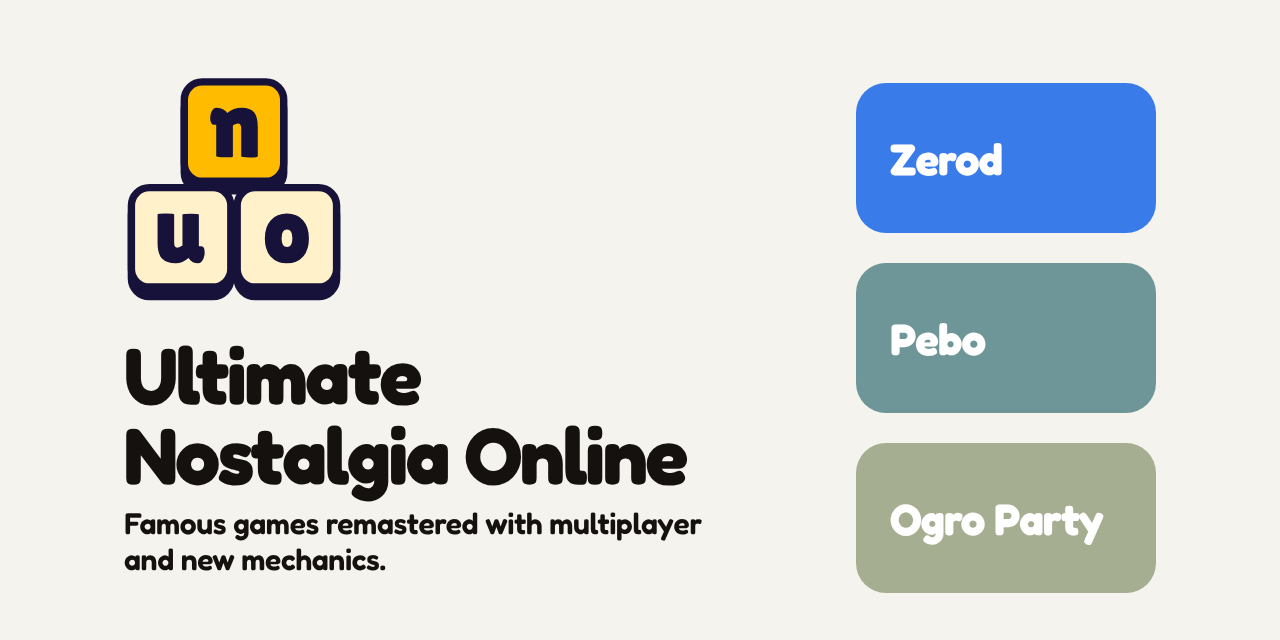
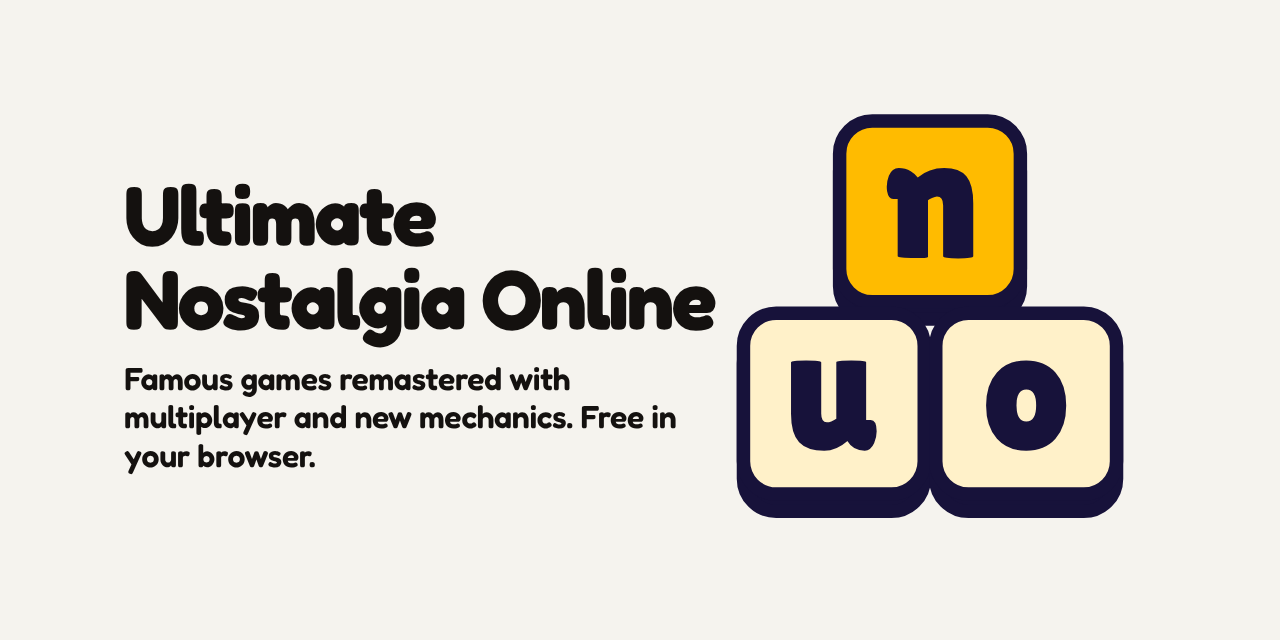
fix: link files relatively and update the descriptions and share images
The CSS, fonts, icons and script used root-relative urls, so the site broke
under github.io/<repo>/. Pages now link their files relatively (tested).
The social preview and og.png no longer name the games and say it is free;
the README and the share image alt text follow the new description.

Claude-Session: https://claude.ai/code/session_011LV7W5LzmNhBdQPiaQsUKd

diff --git a/design/reference/social-preview.html b/design/reference/social-preview.html
@@ -5,17 +5,12 @@
 <style>
 *{margin:0;box-sizing:border-box}
 body{width:1280px;height:640px;background:#F5F3EE;font-family:Fredoka;color:#14110F;position:relative;overflow:hidden}
-svg{position:absolute;left:84px;top:70px;width:220px;height:auto}
-h1{position:absolute;left:84px;top:330px;width:640px;font-size:80px;line-height:1;font-weight:700;letter-spacing:-.03em}
-p{position:absolute;left:84px;top:500px;width:620px;font-size:30px;line-height:1.2;font-weight:600;letter-spacing:-.01em}
-.c{position:absolute;border-radius:30px;right:84px;width:300px;height:150px}
-.a{top:78px;background:#397BE9} .b{top:258px;background:#6E9698} .d{top:438px;background:#A6AE92}
-.t{position:absolute;right:84px;width:300px;height:150px;display:flex;align-items:center;padding-left:34px;font-size:44px;font-weight:700;color:#fff;letter-spacing:-.02em}
+svg{position:absolute;right:110px;top:50%;transform:translateY(-50%);width:400px;height:auto}
+h1{position:absolute;left:84px;top:50%;transform:translateY(-88%);width:720px;font-size:84px;line-height:1;font-weight:700;letter-spacing:-.03em}
+p{position:absolute;left:84px;top:50%;margin-top:40px;width:580px;font-size:32px;line-height:1.2;font-weight:600;letter-spacing:-.01em}
 .stage{position:absolute;left:40px;top:5px;width:1200px;height:630px}</style>
 </head><body><div class="stage">
 <svg viewBox="24 22 208 220" xmlns="http://www.w3.org/2000/svg"><g transform="rotate(0 128.0 75.5)"><rect x="81.0" y="37.5" width="94" height="94" rx="17" fill="#17123A" stroke="#17123A" stroke-width="7" stroke-linejoin="round"/><rect x="81.0" y="28.5" width="94" height="94" rx="17" fill="#FFBB00" stroke="#17123A" stroke-width="7" stroke-linejoin="round"/><path d="M126.95 99.18Q126.95 99.82 120.35 99.82Q111.19 99.54 111.19 98.81V69.12H108.81Q106.42 69.12 105.69 65.09Q105.51 63.9 105.51 62.71Q105.51 59.87 106.61 57.03Q108.26 53 111.74 53Q115.22 53 117.97 54.65Q120.72 56.3 121.63 57.95Q127.4 53 135.38 53Q143.35 53 146.92 57.31Q150.49 61.61 150.49 71.42V98.9Q150.49 100 142.66 100Q134.83 100 134.83 98.9V72.42Q134.83 67.84 131.62 67.84Q130.7 67.84 129.05 68.62Q127.4 69.4 126.95 69.77Z" fill="#17123A"/></g><g transform="rotate(0 78.0 175.5)"><rect x="31.0" y="137.5" width="94" height="94" rx="17" fill="#17123A" stroke="#17123A" stroke-width="7" stroke-linejoin="round"/><rect x="31.0" y="128.5" width="94" height="94" rx="17" fill="#FFF1C9" stroke="#17123A" stroke-width="7" stroke-linejoin="round"/><path d="M55.73 154Q55.73 153 63.58 153Q71.43 153 71.43 154V180.65Q71.43 185.22 74.35 185.22Q76.54 185.22 79.28 183.3V154Q79.28 153.09 87.03 153.09Q94.79 153.09 94.79 154V183.94H97.17Q100.27 183.94 100.27 189.87Q100.27 192.88 98.99 195.98Q97.17 200 94.06 200Q87.95 200 85.03 194.98L84.94 195.07Q79.37 200 72.98 200Q64.13 200 59.93 195.57Q55.73 191.15 55.73 180.93Z" fill="#17123A"/></g><g transform="rotate(0 178.0 175.5)"><rect x="131.0" y="137.5" width="94" height="94" rx="17" fill="#17123A" stroke="#17123A" stroke-width="7" stroke-linejoin="round"/><rect x="131.0" y="128.5" width="94" height="94" rx="17" fill="#FFF1C9" stroke="#17123A" stroke-width="7" stroke-linejoin="round"/><path d="M162.82 193.76Q157.17 187.53 157.17 176.5Q157.17 165.47 162.82 159.24Q168.46 153 178.05 153Q187.63 153 193.23 159.24Q198.83 165.47 198.83 176.5Q198.83 187.53 193.23 193.76Q187.63 200 178.05 200Q168.46 200 162.82 193.76ZM178.09 168.09Q172.98 168.09 172.98 176.41Q172.98 184.72 178.09 184.72Q183.2 184.72 183.2 176.41Q183.2 168.09 178.09 168.09Z" fill="#17123A"/></g></svg>
 <h1>Ultimate<br>Nostalgia Online</h1>
-<p>Famous games remastered with multiplayer and new mechanics.</p>
-<div class="c a"></div><div class="c b"></div><div class="c d"></div>
-<div class="t" style="top:78px">Zerod</div><div class="t" style="top:258px">Pebo</div><div class="t" style="top:438px">Ogro Party</div>
+<p>Famous games remastered with multiplayer and new mechanics. Free in your browser.</p>
 </div></body></html>

diff --git a/design/reference/og-image.html b/design/reference/og-image.html
@@ -5,17 +5,12 @@
 <style>
 *{margin:0;box-sizing:border-box}
 body{width:1200px;height:630px;background:#F5F3EE;font-family:Fredoka;color:#14110F;position:relative;overflow:hidden}
-svg{position:absolute;left:84px;top:70px;width:220px;height:auto}
-h1{position:absolute;left:84px;top:330px;width:640px;font-size:80px;line-height:1;font-weight:700;letter-spacing:-.03em}
-p{position:absolute;left:84px;top:500px;width:620px;font-size:30px;line-height:1.2;font-weight:600;letter-spacing:-.01em}
-.c{position:absolute;border-radius:30px;right:84px;width:300px;height:150px}
-.a{top:78px;background:#397BE9} .b{top:258px;background:#6E9698} .d{top:438px;background:#A6AE92}
-.t{position:absolute;right:84px;width:300px;height:150px;display:flex;align-items:center;padding-left:34px;font-size:44px;font-weight:700;color:#fff;letter-spacing:-.02em}
+svg{position:absolute;right:110px;top:50%;transform:translateY(-50%);width:400px;height:auto}
+h1{position:absolute;left:84px;top:50%;transform:translateY(-88%);width:720px;font-size:84px;line-height:1;font-weight:700;letter-spacing:-.03em}
+p{position:absolute;left:84px;top:50%;margin-top:40px;width:580px;font-size:32px;line-height:1.2;font-weight:600;letter-spacing:-.01em}
 </style>
 </head><body>
 <svg viewBox="24 22 208 220" xmlns="http://www.w3.org/2000/svg"><g transform="rotate(0 128.0 75.5)"><rect x="81.0" y="37.5" width="94" height="94" rx="17" fill="#17123A" stroke="#17123A" stroke-width="7" stroke-linejoin="round"/><rect x="81.0" y="28.5" width="94" height="94" rx="17" fill="#FFBB00" stroke="#17123A" stroke-width="7" stroke-linejoin="round"/><path d="M126.95 99.18Q126.95 99.82 120.35 99.82Q111.19 99.54 111.19 98.81V69.12H108.81Q106.42 69.12 105.69 65.09Q105.51 63.9 105.51 62.71Q105.51 59.87 106.61 57.03Q108.26 53 111.74 53Q115.22 53 117.97 54.65Q120.72 56.3 121.63 57.95Q127.4 53 135.38 53Q143.35 53 146.92 57.31Q150.49 61.61 150.49 71.42V98.9Q150.49 100 142.66 100Q134.83 100 134.83 98.9V72.42Q134.83 67.84 131.62 67.84Q130.7 67.84 129.05 68.62Q127.4 69.4 126.95 69.77Z" fill="#17123A"/></g><g transform="rotate(0 78.0 175.5)"><rect x="31.0" y="137.5" width="94" height="94" rx="17" fill="#17123A" stroke="#17123A" stroke-width="7" stroke-linejoin="round"/><rect x="31.0" y="128.5" width="94" height="94" rx="17" fill="#FFF1C9" stroke="#17123A" stroke-width="7" stroke-linejoin="round"/><path d="M55.73 154Q55.73 153 63.58 153Q71.43 153 71.43 154V180.65Q71.43 185.22 74.35 185.22Q76.54 185.22 79.28 183.3V154Q79.28 153.09 87.03 153.09Q94.79 153.09 94.79 154V183.94H97.17Q100.27 183.94 100.27 189.87Q100.27 192.88 98.99 195.98Q97.17 200 94.06 200Q87.95 200 85.03 194.98L84.94 195.07Q79.37 200 72.98 200Q64.13 200 59.93 195.57Q55.73 191.15 55.73 180.93Z" fill="#17123A"/></g><g transform="rotate(0 178.0 175.5)"><rect x="131.0" y="137.5" width="94" height="94" rx="17" fill="#17123A" stroke="#17123A" stroke-width="7" stroke-linejoin="round"/><rect x="131.0" y="128.5" width="94" height="94" rx="17" fill="#FFF1C9" stroke="#17123A" stroke-width="7" stroke-linejoin="round"/><path d="M162.82 193.76Q157.17 187.53 157.17 176.5Q157.17 165.47 162.82 159.24Q168.46 153 178.05 153Q187.63 153 193.23 159.24Q198.83 165.47 198.83 176.5Q198.83 187.53 193.23 193.76Q187.63 200 178.05 200Q168.46 200 162.82 193.76ZM178.09 168.09Q172.98 168.09 172.98 176.41Q172.98 184.72 178.09 184.72Q183.2 184.72 183.2 176.41Q183.2 168.09 178.09 168.09Z" fill="#17123A"/></g></svg>
 <h1>Ultimate<br>Nostalgia Online</h1>
-<p>Famous games remastered with multiplayer and new mechanics.</p>
-<div class="c a"></div><div class="c b"></div><div class="c d"></div>
-<div class="t" style="top:78px">Zerod</div><div class="t" style="top:258px">Pebo</div><div class="t" style="top:438px">Ogro Party</div>
+<p>Famous games remastered with multiplayer and new mechanics. Free in your browser.</p>
 </body></html>

diff --git a/src/input.css b/src/input.css
@@ -2,14 +2,14 @@
 
 @font-face {
   font-family: "Fredoka";
-  src: url("/fonts/fredoka.woff2") format("woff2");
+  src: url("fonts/fredoka.woff2") format("woff2");
   font-weight: 300 700;
   font-display: swap;
 }
 
 @font-face {
   font-family: "Figtree";
-  src: url("/fonts/figtree.woff2") format("woff2");
+  src: url("fonts/figtree.woff2") format("woff2");
   font-weight: 300 900;
   font-display: swap;
 }
@@ -96,7 +96,7 @@
   inset: 0;
   z-index: 90;
   pointer-events: none;
-  background: url("/img/grain.png") repeat;
+  background: url("img/grain.png") repeat;
   background-size: 160px 160px;
 }
 

diff --git a/README.md b/README.md
@@ -1,8 +1,5 @@
 <p align="center">
-  <picture>
-    <source media="(prefers-color-scheme: dark)" srcset="design/svg/logo-dark.svg">
-    <img src="design/svg/logo-light.svg" alt="uno, Ultimate Nostalgia Online" width="320">
-  </picture>
+  <img src="design/png/social-preview.png" alt="uno, Ultimate Nostalgia Online: famous games remastered with multiplayer and new mechanics, free in your browser" width="640">
 </p>
 
 <p align="center">
@@ -11,11 +8,7 @@
   <a href="https://uno.guilherr.me"><img src="https://img.shields.io/badge/site-uno.guilherr.me-2f6fdd" alt="Site"></a>
 </p>
 
-<p align="center">
-  <img src="design/png/social-preview.png" alt="uno: famous games remastered with multiplayer and new mechanics" width="640">
-</p>
-
-**uno** (Ultimate Nostalgia Online) is the hub of games at [uno.guilherr.me](https://uno.guilherr.me): famous games remastered with multiplayer and new mechanics to have fun with your friends. [Zerod](https://zerod.guilherr.me) is live; Pebo and Ogro Party are coming soon.
+**uno** (Ultimate Nostalgia Online) is the hub of games at [uno.guilherr.me](https://uno.guilherr.me): famous games remastered with multiplayer and new mechanics, free to play with your friends in the browser. [Zerod](https://zerod.guilherr.me) is out now; Pebo and Ogro Party are coming soon.
 
 ## What you get
 

diff --git a/docs/adr/0005-gtm-script.md b/docs/adr/0005-gtm-script.md
@@ -8,7 +8,7 @@ The owner measures all their sites with Google Tag Manager, served from their ow
 
 ## Decision
 
-The page loads that script with `async` in the head, so every visit is counted. the URL is in `site.json`. No other third-party script, font or image is allowed. Fonts are self-hosted. Tests and e2e abort every request that leaves localhost.
+The page loads that script with `async` in the head, so every visit is counted. The URL is in `site.json`. No other third-party script, font or image is allowed. Fonts are self-hosted. Tests and e2e abort every request that leaves localhost.
 
 ## Consequences
 
